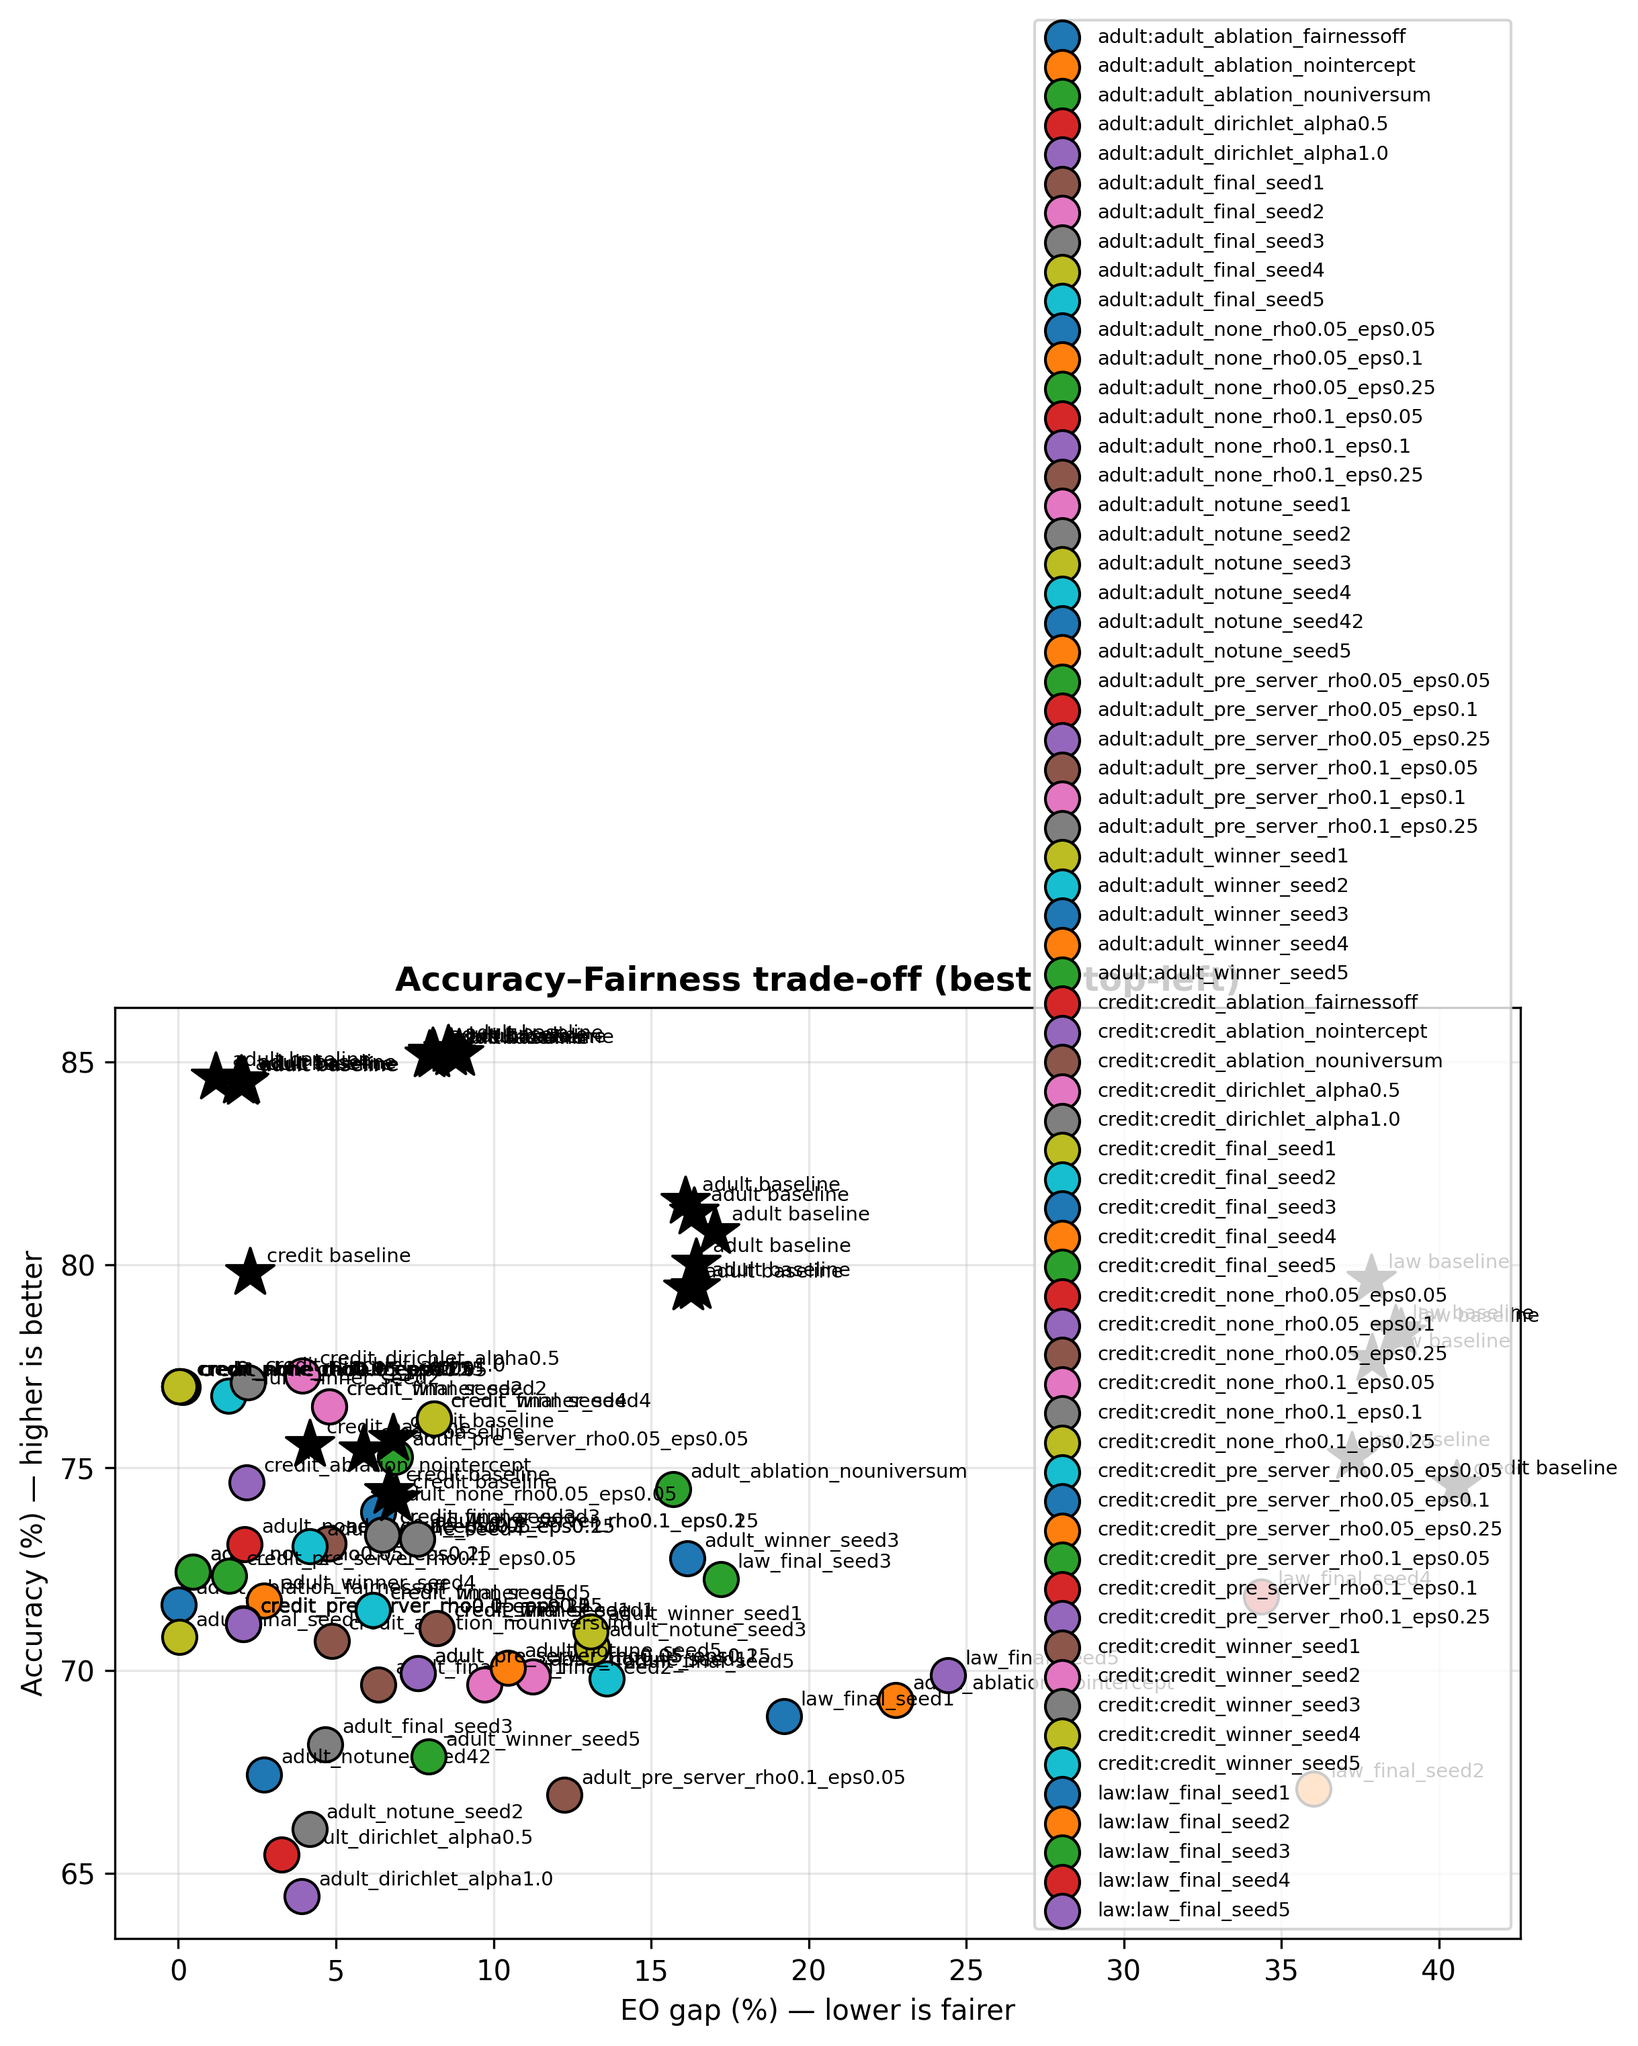
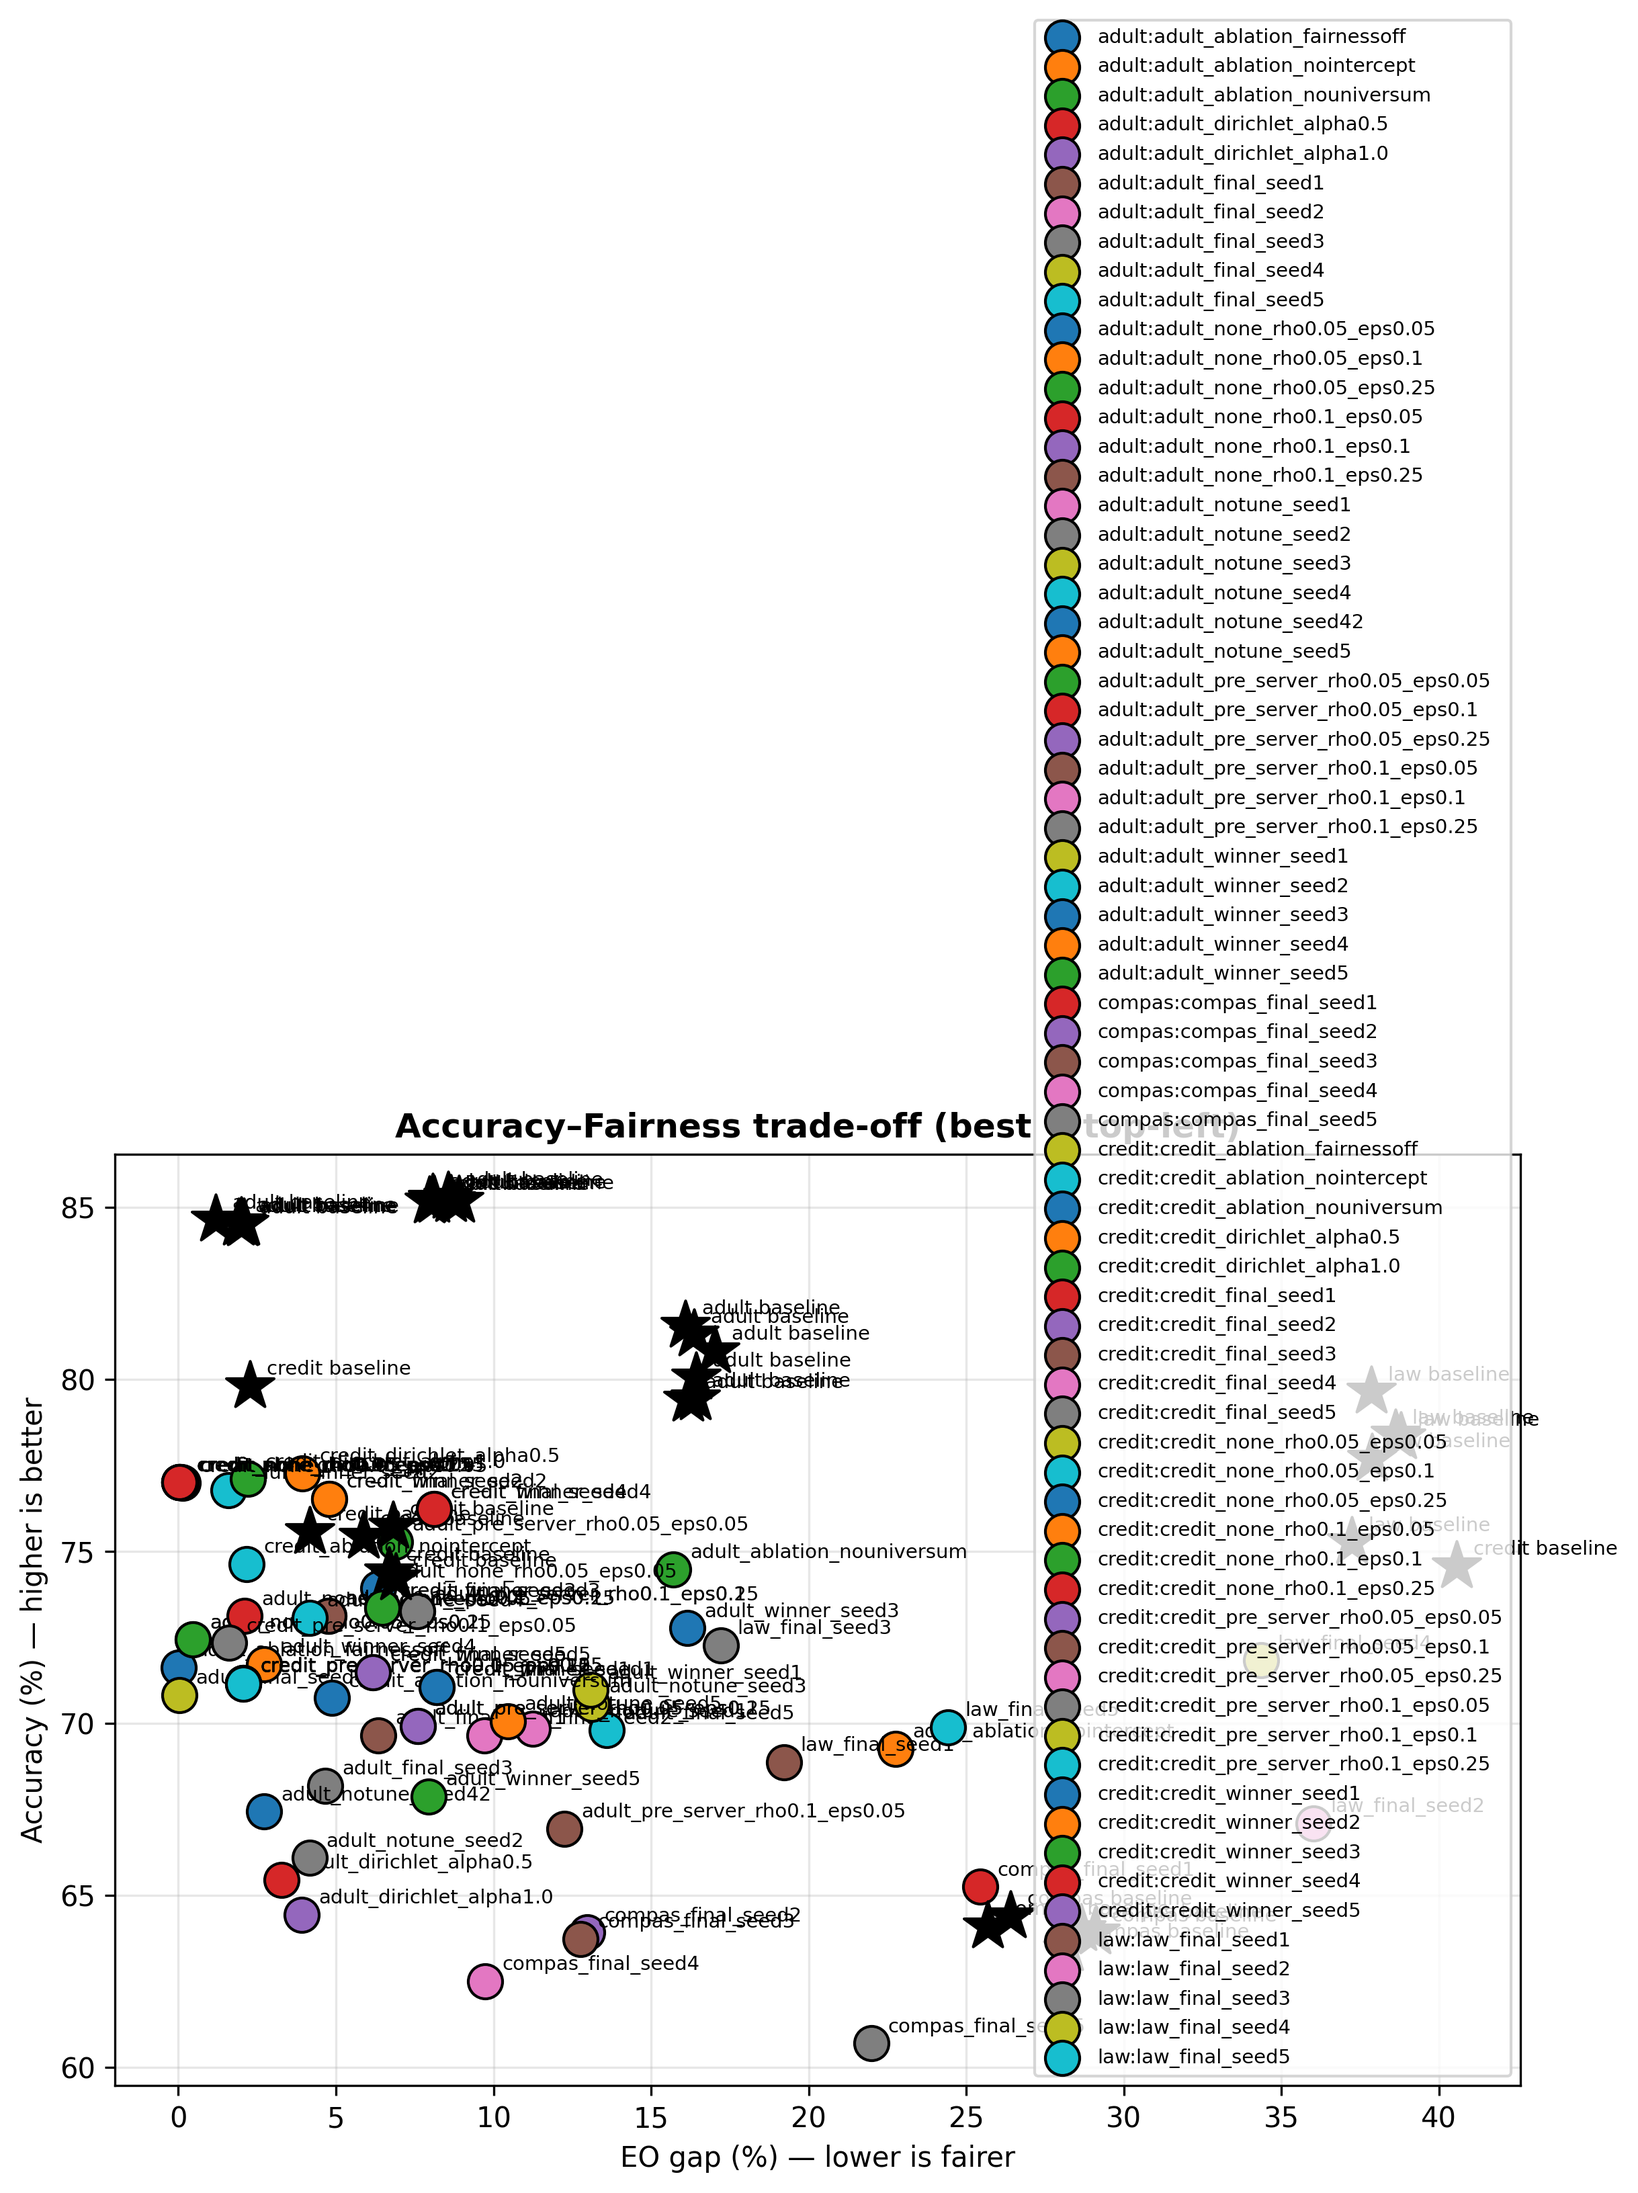
feat: interactive hover chart + split convergence plots; fix line endings
plot_results.py: split the single overplotted results_convergence.png
(70+ lines, unreadable color legend) into results_convergence_accuracy.png
and results_convergence_eo_gap.png, and replace the legend with
end-of-line labels naming each run directly on the right margin.

Add plot_results_interactive.py: a Plotly-based version of the same
convergence chart where hovering over a line shows the run name in a
tooltip instead of relying on a static color legend at all. Outputs
outputs/results_convergence_interactive.html (gitignored - regenerate
with 'python plot_results_interactive.py'; requires 'pip install plotly').

docs/PAPER_TABLES.md: line-ending only (missed by the earlier
.gitattributes normalization commit since it's outside outputs/).

diff --git a/plot_results.py b/plot_results.py
@@ -4,7 +4,8 @@ Reusable results plotter.
 Scans outputs/draft_results_*.json (whatever configs you've run) and regenerates:
   - outputs/results_pareto.png      accuracy vs EO gap, baseline as a star, best = top-left
   - outputs/results_bars.png        baseline vs pipeline accuracy & EO gap per config
-  - outputs/results_convergence.png val accuracy / EO gap per round (if round_logs present)
+  - outputs/results_convergence_accuracy.png val accuracy per round (if round_logs present)
+  - outputs/results_convergence_eo_gap.png   val EO gap per round (if round_logs present)
 
 Run after any re-run:   python plot_results.py
 No hardcoded experiment pairs — it just plots whatever JSONs are in outputs/.
@@ -93,23 +94,73 @@ def plot_bars(runs):
     plt.close()
 
 
+def _label_lines_on_right(fig, ax, end_x, end_y, end_labels, end_colors, fontsize=6):
+    """Annotate each line's final value with its name on the right margin,
+    spacing labels apart so they don't overlap while keeping a thin leader
+    line back to the true final value."""
+    fig.canvas.draw()
+    bbox_px = ax.get_window_extent()
+    ylim = ax.get_ylim()
+    px_per_data = bbox_px.height / (ylim[1] - ylim[0])
+    min_gap = (fontsize * 1.6 * fig.dpi / 72) / px_per_data
+
+    order = sorted(range(len(end_y)), key=lambda i: end_y[i])
+    label_y = [end_y[i] for i in order]
+    for i in range(1, len(label_y)):
+        if label_y[i] - label_y[i - 1] < min_gap:
+            label_y[i] = label_y[i - 1] + min_gap
+    for i in range(len(label_y) - 2, -1, -1):
+        if label_y[i + 1] - label_y[i] < min_gap:
+            label_y[i] = label_y[i + 1] - min_gap
+    label_y_by_idx = {i: y for i, y in zip(order, label_y)}
+
+    for i in range(len(end_labels)):
+        ax.annotate(
+            end_labels[i], xy=(end_x[i], end_y[i]), xycoords="data",
+            xytext=(1.02, label_y_by_idx[i]), textcoords=("axes fraction", "data"),
+            fontsize=fontsize, color=end_colors[i], va="center", ha="left",
+            arrowprops=dict(arrowstyle="-", color=end_colors[i], lw=0.5, shrinkA=0, shrinkB=2),
+            annotation_clip=False,
+        )
+
+
 def plot_convergence(runs):
     runs = [r for r in runs if r["round_logs"]]
     if not runs:
         return
-    fig, (a1, a2) = plt.subplots(1, 2, figsize=(13, 5))
+
+    fig, a1 = plt.subplots(figsize=(9, max(5, 0.16 * len(runs))))
+    end_x, end_y, end_labels, end_colors = [], [], [], []
     for r in runs:
         rounds = [x["round"] for x in r["round_logs"]]
-        a1.plot(rounds, [x.get("val_accuracy", np.nan) * 100 for x in r["round_logs"]],
-                marker="o", label=f'{r["dataset"]}:{r["label"]}')
-        a2.plot(rounds, [x.get("val_EO_gap", np.nan) * 100 for x in r["round_logs"]],
-                marker="o", label=f'{r["dataset"]}:{r["label"]}')
+        acc = [x.get("val_accuracy", np.nan) * 100 for x in r["round_logs"]]
+        line, = a1.plot(rounds, acc, marker="o")
+        end_x.append(rounds[-1])
+        end_y.append(acc[-1])
+        end_labels.append(f'{r["dataset"]}:{r["label"]}')
+        end_colors.append(line.get_color())
     a1.set_title("Validation accuracy per round", fontweight="bold")
-    a1.set_xlabel("round"); a1.set_ylabel("accuracy (%)"); a1.grid(alpha=0.3); a1.legend(fontsize=7)
-    a2.set_title("Validation EO gap per round", fontweight="bold")
-    a2.set_xlabel("round"); a2.set_ylabel("EO gap (%)"); a2.grid(alpha=0.3); a2.legend(fontsize=7)
+    a1.set_xlabel("round"); a1.set_ylabel("accuracy (%)"); a1.grid(alpha=0.3)
+    _label_lines_on_right(fig, a1, end_x, end_y, end_labels, end_colors)
     plt.tight_layout()
-    plt.savefig(os.path.join(OUT, "results_convergence.png"), dpi=300, bbox_inches="tight")
+    plt.savefig(os.path.join(OUT, "results_convergence_accuracy.png"), dpi=300, bbox_inches="tight")
+    plt.close()
+
+    fig, a2 = plt.subplots(figsize=(9, max(5, 0.16 * len(runs))))
+    end_x, end_y, end_labels, end_colors = [], [], [], []
+    for r in runs:
+        rounds = [x["round"] for x in r["round_logs"]]
+        eo = [x.get("val_EO_gap", np.nan) * 100 for x in r["round_logs"]]
+        line, = a2.plot(rounds, eo, marker="o")
+        end_x.append(rounds[-1])
+        end_y.append(eo[-1])
+        end_labels.append(f'{r["dataset"]}:{r["label"]}')
+        end_colors.append(line.get_color())
+    a2.set_title("Validation EO gap per round", fontweight="bold")
+    a2.set_xlabel("round"); a2.set_ylabel("EO gap (%)"); a2.grid(alpha=0.3)
+    _label_lines_on_right(fig, a2, end_x, end_y, end_labels, end_colors)
+    plt.tight_layout()
+    plt.savefig(os.path.join(OUT, "results_convergence_eo_gap.png"), dpi=300, bbox_inches="tight")
     plt.close()
 
 
@@ -120,4 +171,4 @@ if __name__ == "__main__":
     else:
         plot_pareto(runs); plot_bars(runs); plot_convergence(runs)
         print(f"Plotted {len(runs)} run(s). Figures saved in {OUT}/:")
-        print("  results_pareto.png, results_bars.png, results_convergence.png")
+        print("  results_pareto.png, results_bars.png, results_convergence_accuracy.png, results_convergence_eo_gap.png")

diff --git a/plot_results_interactive.py b/plot_results_interactive.py
@@ -1,0 +1,99 @@
+"""
+Interactive results plotter -- hover over a line to see its run name,
+instead of reading a giant static color legend.
+
+Same data source as plot_results.py (outputs/draft_results_*.json).
+Produces an HTML file you open in a browser (not a PNG -- hover tooltips
+only work in an interactive format, they can't be baked into a static image
+or into the paper's PDF).
+
+Requires: pip install plotly
+
+Run:    python plot_results_interactive.py
+Output: outputs/results_convergence_interactive.html
+"""
+import os, glob, json
+import plotly.graph_objects as go
+from plotly.subplots import make_subplots
+
+OUT = os.path.join(os.path.dirname(os.path.abspath(__file__)), "outputs")
+
+
+def _label(path: str) -> str:
+    b = os.path.basename(path)
+    b = b.replace("draft_results_", "").replace(".json", "")
+    return b if b else "run"
+
+
+def load_runs():
+    runs = []
+    for p in sorted(glob.glob(os.path.join(OUT, "draft_results_*.json"))):
+        try:
+            with open(p) as f:
+                d = json.load(f)
+        except Exception:
+            continue
+        runs.append({
+            "label": _label(p),
+            "dataset": d.get("dataset", "?"),
+            "round_logs": d.get("round_logs", []),
+        })
+    return runs
+
+
+def plot_convergence_interactive(runs):
+    runs = [r for r in runs if r["round_logs"]]
+    if not runs:
+        print("No runs with round_logs found.")
+        return
+
+    fig = make_subplots(rows=1, cols=2, subplot_titles=(
+        "Validation accuracy per round", "Validation EO gap per round"
+    ))
+
+    for r in runs:
+        name = f'{r["dataset"]}:{r["label"]}'
+        rounds = [x["round"] for x in r["round_logs"]]
+        acc = [x.get("val_accuracy") * 100 if x.get("val_accuracy") is not None else None
+               for x in r["round_logs"]]
+        eo = [x.get("val_EO_gap") * 100 if x.get("val_EO_gap") is not None else None
+              for x in r["round_logs"]]
+
+        fig.add_trace(
+            go.Scatter(
+                x=rounds, y=acc, mode="lines+markers", name=name,
+                hovertemplate=f"<b>{name}</b><br>round=%{{x}}<br>accuracy=%{{y:.1f}}%<extra></extra>",
+                showlegend=False,
+            ),
+            row=1, col=1,
+        )
+        fig.add_trace(
+            go.Scatter(
+                x=rounds, y=eo, mode="lines+markers", name=name,
+                hovertemplate=f"<b>{name}</b><br>round=%{{x}}<br>EO gap=%{{y:.1f}}%<extra></extra>",
+                showlegend=False,
+            ),
+            row=1, col=2,
+        )
+
+    fig.update_xaxes(title_text="round", row=1, col=1)
+    fig.update_xaxes(title_text="round", row=1, col=2)
+    fig.update_yaxes(title_text="accuracy (%)", row=1, col=1)
+    fig.update_yaxes(title_text="EO gap (%) -- lower is fairer", row=1, col=2)
+    fig.update_layout(
+        title_text="Convergence (hover over any line to see which run it is)",
+        height=550, width=1200,
+    )
+
+    out_path = os.path.join(OUT, "results_convergence_interactive.html")
+    fig.write_html(out_path)
+    print(f"Saved interactive plot to {out_path}")
+    print("Open it in a browser and hover over any line to see its run name.")
+
+
+if __name__ == "__main__":
+    runs = load_runs()
+    if not runs:
+        print(f"No draft_results_*.json found in {OUT}. Run the pipeline first.")
+    else:
+        plot_convergence_interactive(runs)
